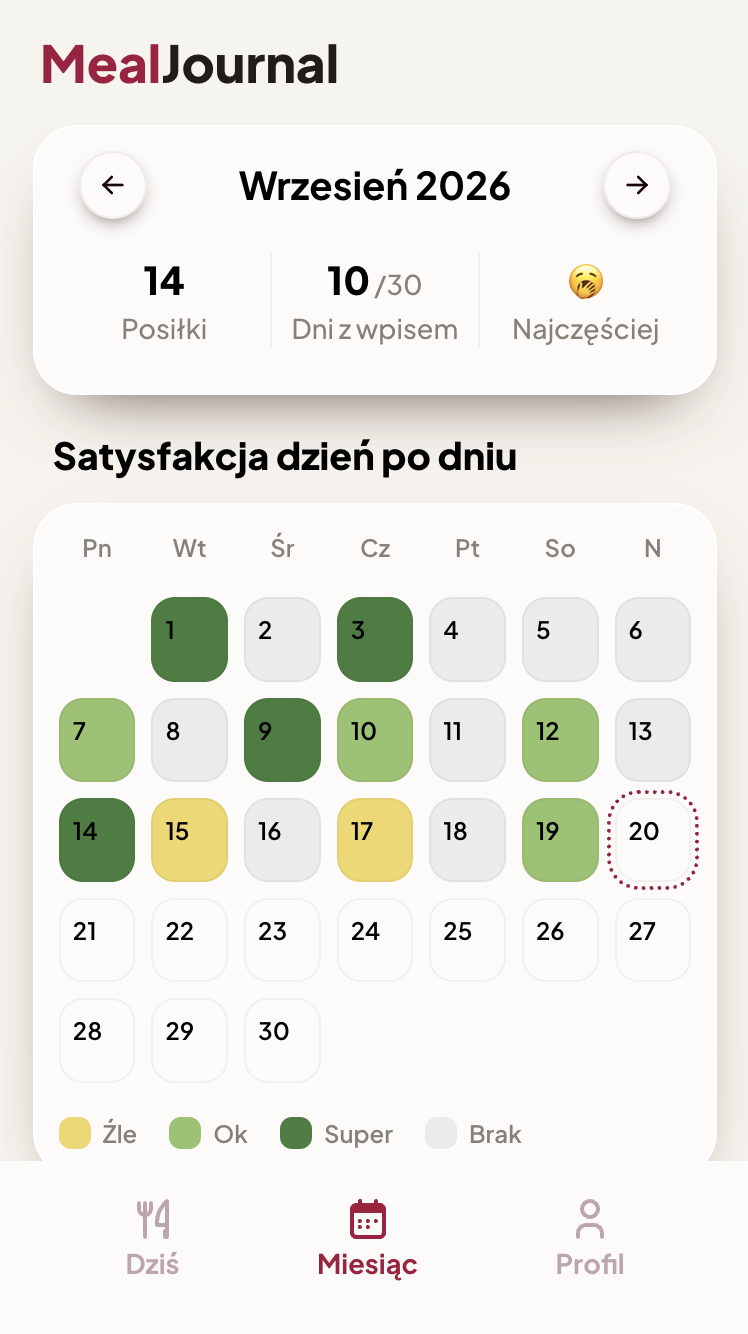
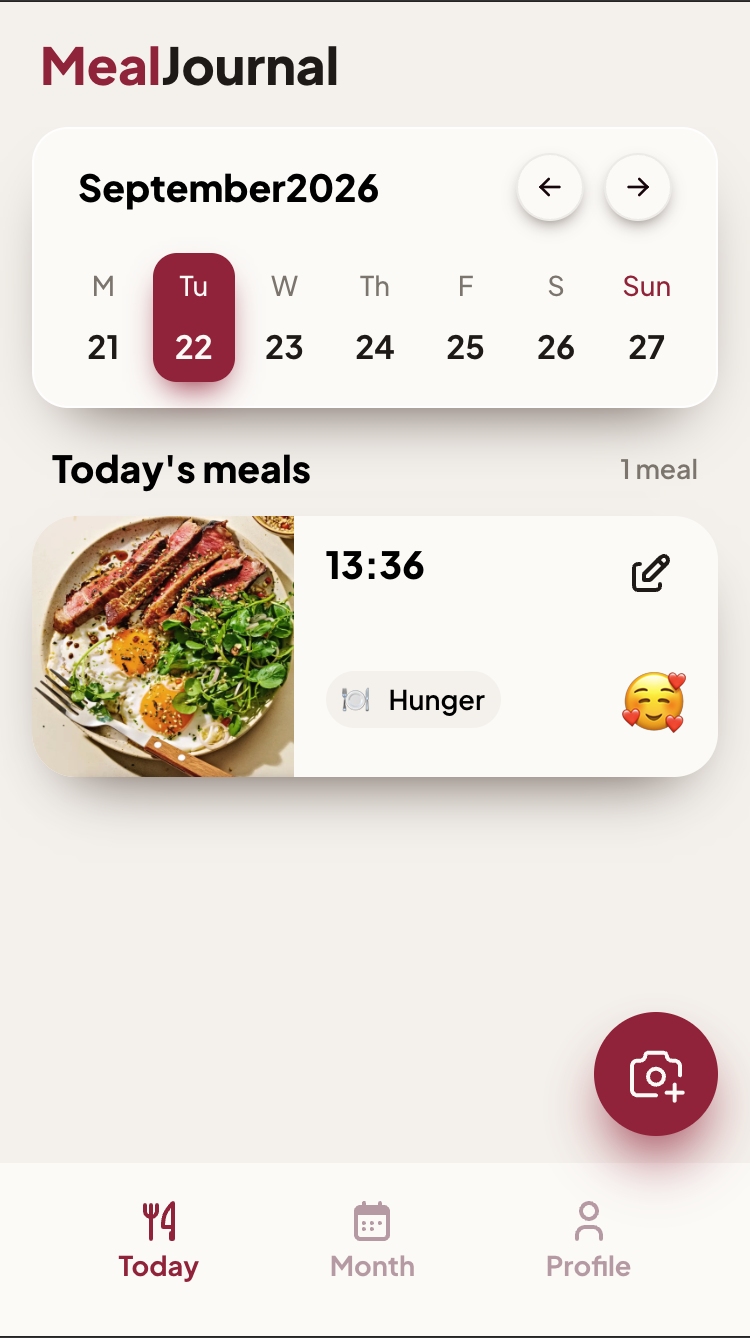
docs: add screenshots of updated UI in English

diff --git a/README.md b/README.md
@@ -8,9 +8,11 @@ hunger. It lets you see your own food decisions in a broader perspective.
 ## Screenshots
 
 <p align="center">
-  <img src="docs/screenshots/today.png" width="260" alt="Day view — meals list and date picker" />
-  <img src="docs/screenshots/month-heatmap.png" width="260" alt="Month summary — satisfaction heatmap" />
-  <img src="docs/screenshots/month-triggers.png" width="260" alt="Month summary — chart of the most common reasons for eating" />
+  <img src="docs/screenshots/add-meal-1.png" width="160" alt="Add new meal modal" />
+  <img src="docs/screenshots/add-meal-2.png" width="160" alt="New meal form" />
+  <img src="docs/screenshots/today.png" width="160" alt="Day view — meals list and date picker" />
+  <img src="docs/screenshots/month-summary-1.png" width="160" alt="Month summary — satisfaction heatmap" />
+  <img src="docs/screenshots/month-summary-2.png" width="160" alt="Month summary — chart of the most common reasons for eating" />
 </p>
 
 ## Features
